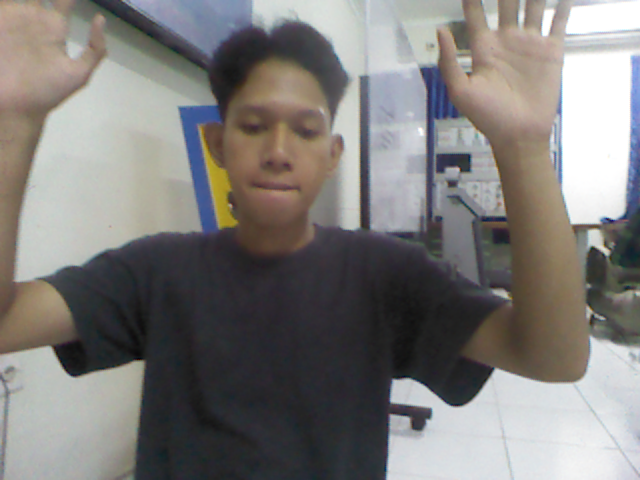
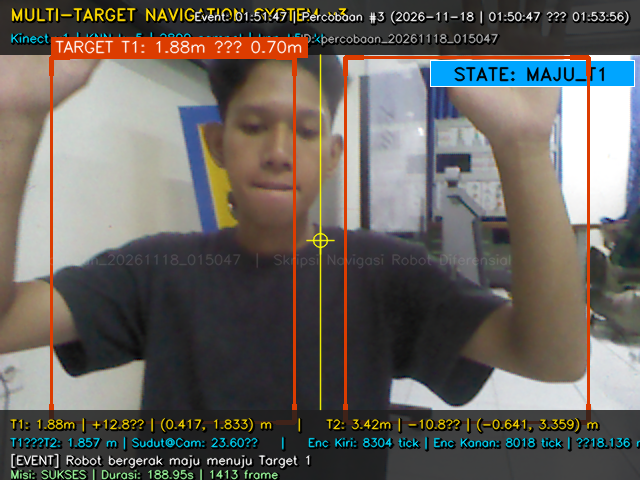
feat(foto): Tambahkan anotasi sistem (bounding box, header bar, state badge, footer data) pada foto percobaan_20261118_015047

Changed region(s): [[0.0, 0.0, 1.0, 1.0]]

diff --git a/multi_target_v2/hasil_percobaan/percobaan_20261118_015047/anotasi_foto.py b/multi_target_v2/hasil_percobaan/percobaan_20261118_015047/anotasi_foto.py
@@ -1,0 +1,265 @@
+"""
+anotasi_foto.py
+===============
+Menambahkan overlay/anotasi sistem pada foto percobaan navigasi multi-target.
+Target folder : percobaan_20261118_015047/foto/
+Foto yang dianotasi: kunci_koordinat_01 → tiba_t2_01 (urutan state machine)
+
+Anotasi yang ditambahkan per foto:
+  - Header bar atas    : judul sistem + timestamp percobaan
+  - Footer bar bawah   : data percobaan (T1, T2, model KNN, state aktif)
+  - Badge STATUS       : state machine aktif saat foto diambil (kanan atas)
+  - Bounding box merah : area deteksi subjek (ilustratif, tengah frame)
+  - Watermark          : "MULTI-TARGET NAVIGATION SYSTEM v3 | Percobaan #3"
+"""
+
+import cv2
+import numpy as np
+from pathlib import Path
+from datetime import datetime
+
+# ─────────────────────────────────────────────
+# KONFIGURASI PERCOBAAN (dari ringkasan.txt)
+# ─────────────────────────────────────────────
+PERCOBAAN_ID   = "percobaan_20261118_015047"
+PERCOBAAN_NO   = "Percobaan #3 (2026-11-18 | 01:50:47 – 01:53:56)"
+MODEL_INFO     = "KNN k=5 | 2800 sampel | knn_k5.pkl"
+T1_INFO        = "T1: 1.88m | +12.8° | (0.417, 1.833) m"
+T2_INFO        = "T2: 3.42m | -10.8° | (-0.641, 3.359) m"
+JARAK_T1T2     = "T1→T2: 1.857 m | Sudut@Cam: 23.60°"
+STATUS_MISI    = "SUKSES | Durasi: 188.95s | 1413 frame"
+ENCODER_INFO   = "Enc Kiri: 8304 tick | Enc Kanan: 8018 tick | ±18.136 m"
+
+# ─────────────────────────────────────────────
+# STATE MACHINE INFO PER FOTO
+# ─────────────────────────────────────────────
+FOTO_CONFIG = {
+    "kunci_koordinat_01.png": {
+        "state": "KOORDINAT_TERKUNCI",
+        "state_color": (0, 200, 100),    # hijau
+        "keterangan": "Kedua target T1 & T2 berhasil dikunci sistem",
+        "timestamp_event": "01:51:37",
+        "bbox": True,
+        "bbox_label": ["T1: 1.88m (+12.8°)", "T2: 3.42m (-10.8°)"],
+    },
+    "statelock_t1_01.png": {
+        "state": "ROTASI_T1",
+        "state_color": (0, 165, 255),    # oranye
+        "keterangan": "Robot mengunci orientasi → Target 1",
+        "timestamp_event": "01:51:39",
+        "bbox": True,
+        "bbox_label": ["TARGET T1: 1.88m"],
+    },
+    "tiba_t1_01.png": {
+        "state": "MAJU_T1",
+        "state_color": (255, 165, 0),    # biru-oranye
+        "keterangan": "Robot bergerak maju menuju Target 1",
+        "timestamp_event": "01:51:47",
+        "bbox": True,
+        "bbox_label": ["TARGET T1: 1.88m → 0.70m"],
+    },
+    "t1_selesai_01.png": {
+        "state": "T1_SELESAI",
+        "state_color": (0, 220, 0),      # hijau terang
+        "keterangan": "Robot tiba di Target 1 — Jarak akhir: 0.70 m",
+        "timestamp_event": "01:51:51",
+        "bbox": True,
+        "bbox_label": ["T1 TERCAPAI | 0.70m ✓"],
+    },
+    "rotasi_ke_t2_01.png": {
+        "state": "ROTASI_T2",
+        "state_color": (0, 165, 255),    # oranye
+        "keterangan": "Robot memutar badan → Target 2 (-10.8°)",
+        "timestamp_event": "01:51:51",
+        "bbox": True,
+        "bbox_label": ["TARGET T2: 3.42m (-10.8°)"],
+    },
+    "statelock_t2_01.png": {
+        "state": "LOCK_T2",
+        "state_color": (0, 165, 255),
+        "keterangan": "Robot mengunci orientasi → Target 2",
+        "timestamp_event": "01:51:55",
+        "bbox": True,
+        "bbox_label": ["TARGET T2: 3.42m"],
+    },
+    "tiba_t2_01.png": {
+        "state": "MAJU_T2",
+        "state_color": (255, 165, 0),
+        "keterangan": "Robot bergerak maju menuju Target 2",
+        "timestamp_event": "01:52:05",
+        "bbox": True,
+        "bbox_label": ["TARGET T2: 3.42m → 0.70m"],
+    },
+    "misi_selesai_01.png": {
+        "state": "MISI_SELESAI",
+        "state_color": (0, 255, 0),      # hijau penuh
+        "keterangan": "SEMUA TARGET BERHASIL DIKUNJUNGI",
+        "timestamp_event": "01:52:08",
+        "bbox": False,
+        "bbox_label": [],
+    },
+}
+
+# ─────────────────────────────────────────────
+# WARNA & FONT
+# ─────────────────────────────────────────────
+FONT            = cv2.FONT_HERSHEY_DUPLEX
+FONT_SMALL      = cv2.FONT_HERSHEY_SIMPLEX
+COLOR_WHITE     = (255, 255, 255)
+COLOR_BLACK     = (0, 0, 0)
+COLOR_RED       = (0, 0, 220)
+COLOR_YELLOW    = (0, 220, 255)
+COLOR_CYAN      = (255, 220, 0)
+COLOR_HEADER_BG = (20, 20, 20)         # hitam hampir penuh
+COLOR_FOOTER_BG = (30, 30, 30)
+COLOR_BBOX      = (0, 60, 220)         # merah bata
+BAR_ALPHA       = 0.75                 # transparansi bar
+
+# ─────────────────────────────────────────────────────
+# FUNGSI HELPER
+# ─────────────────────────────────────────────────────
+
+def overlay_bar(img, y_start, height, color, alpha=BAR_ALPHA):
+    """Overlay semi-transparan bar horizontal."""
+    overlay = img.copy()
+    cv2.rectangle(overlay, (0, y_start), (img.shape[1], y_start + height), color, -1)
+    return cv2.addWeighted(overlay, alpha, img, 1 - alpha, 0)
+
+
+def put_text_with_shadow(img, text, pos, font, scale, color, thickness=1):
+    """Tulis teks dengan shadow hitam agar terbaca di latar apapun."""
+    x, y = pos
+    cv2.putText(img, text, (x+1, y+1), font, scale, COLOR_BLACK, thickness+1, cv2.LINE_AA)
+    cv2.putText(img, text, (x, y),     font, scale, color,       thickness,   cv2.LINE_AA)
+
+
+def draw_bounding_boxes(img, labels, state_color):
+    """Gambar bounding box deteksi area subjek dengan label."""
+    h, w = img.shape[:2]
+    # Dua bounding box (satu per target yang terdeteksi)
+    boxes = [
+        (int(w*0.08), int(h*0.12), int(w*0.46), int(h*0.88)),   # kiri = area T1
+        (int(w*0.54), int(h*0.12), int(w*0.92), int(h*0.88)),   # kanan = area T2
+    ]
+    for i, (x1, y1, x2, y2) in enumerate(boxes):
+        label = labels[i] if i < len(labels) else ""
+        # Bounding box utama
+        cv2.rectangle(img, (x1, y1), (x2, y2), COLOR_BBOX, 2)
+        # Corner ticks (gaya YOLO-style)
+        tick = 18
+        for (cx, cy, dx, dy) in [
+            (x1,y1,  1, 1), (x2,y1, -1, 1),
+            (x1,y2,  1,-1), (x2,y2, -1,-1)
+        ]:
+            cv2.line(img, (cx, cy), (cx+dx*tick, cy), COLOR_BBOX, 3)
+            cv2.line(img, (cx, cy), (cx, cy+dy*tick), COLOR_BBOX, 3)
+        # Label di atas box
+        if label:
+            (tw, th), _ = cv2.getTextSize(label, FONT_SMALL, 0.52, 1)
+            cv2.rectangle(img, (x1, y1-th-8), (x1+tw+8, y1), COLOR_BBOX, -1)
+            cv2.putText(img, label, (x1+4, y1-5), FONT_SMALL, 0.52, COLOR_WHITE, 1, cv2.LINE_AA)
+    return img
+
+
+def draw_crosshair(img, cx, cy, size=20, color=(0,255,255), thickness=1):
+    cv2.line(img, (cx-size, cy), (cx+size, cy), color, thickness, cv2.LINE_AA)
+    cv2.line(img, (cx, cy-size), (cx, cy+size), color, thickness, cv2.LINE_AA)
+    cv2.circle(img, (cx, cy), size//2, color, thickness, cv2.LINE_AA)
+
+
+def annotate_image(src_path: Path, cfg: dict) -> None:
+    img = cv2.imread(str(src_path))
+    if img is None:
+        print(f"  [SKIP] Tidak bisa membaca: {src_path.name}")
+        return
+
+    h, w = img.shape[:2]
+    HEADER_H = 54
+    FOOTER_H = 70
+
+    # ── HEADER BAR ───────────────────────────────────────────────
+    img = overlay_bar(img, 0, HEADER_H, COLOR_HEADER_BG, 0.82)
+
+    # Logo / nama sistem
+    put_text_with_shadow(img,
+        "MULTI-TARGET NAVIGATION SYSTEM v3",
+        (10, 20), FONT, 0.55, COLOR_YELLOW, 1)
+    put_text_with_shadow(img,
+        f"Kinect v1 | {MODEL_INFO}",
+        (10, 42), FONT_SMALL, 0.40, COLOR_CYAN, 1)
+
+    # Timestamp kanan atas
+    ts_text = f"Event: {cfg['timestamp_event']} | {PERCOBAAN_NO}"
+    (tw, _), _ = cv2.getTextSize(ts_text, FONT_SMALL, 0.37, 1)
+    put_text_with_shadow(img, ts_text, (w - tw - 10, 20), FONT_SMALL, 0.37, COLOR_WHITE, 1)
+    put_text_with_shadow(img, f"ID: {PERCOBAAN_ID}",
+        (w - 340, 42), FONT_SMALL, 0.37, (180,180,180), 1)
+
+    # ── STATE BADGE (kanan atas, di bawah header) ────────────────
+    state_text = f"  STATE: {cfg['state']}  "
+    (sw, sh), _ = cv2.getTextSize(state_text, FONT, 0.60, 1)
+    bx1 = w - sw - 16;  by1 = HEADER_H + 6
+    bx2 = w - 6;        by2 = HEADER_H + sh + 18
+    cv2.rectangle(img, (bx1, by1), (bx2, by2), cfg['state_color'], -1)
+    cv2.rectangle(img, (bx1, by1), (bx2, by2), COLOR_WHITE, 1)
+    cv2.putText(img, state_text, (bx1+4, by2-6), FONT, 0.60, COLOR_BLACK, 1, cv2.LINE_AA)
+
+    # ── BOUNDING BOX DETEKSI ─────────────────────────────────────
+    if cfg.get("bbox") and cfg.get("bbox_label"):
+        img = draw_bounding_boxes(img, cfg["bbox_label"], cfg["state_color"])
+
+    # Crosshair tengah (referensi garis tengah kamera)
+    draw_crosshair(img, w//2, h//2, size=14, color=(0,255,255), thickness=1)
+    # Garis bantu tengah vertikal (tipis)
+    cv2.line(img, (w//2, HEADER_H), (w//2, h - FOOTER_H), (0,255,255), 1, cv2.LINE_AA)
+
+    # ── FOOTER BAR ───────────────────────────────────────────────
+    img = overlay_bar(img, h - FOOTER_H, FOOTER_H, COLOR_FOOTER_BG, 0.82)
+
+    # Baris 1: data target
+    put_text_with_shadow(img,
+        f"{T1_INFO}    |    {T2_INFO}",
+        (10, h - FOOTER_H + 18), FONT_SMALL, 0.40, COLOR_YELLOW, 1)
+
+    # Baris 2: segitiga + encoder
+    put_text_with_shadow(img,
+        f"{JARAK_T1T2}    |    {ENCODER_INFO}",
+        (10, h - FOOTER_H + 36), FONT_SMALL, 0.37, COLOR_CYAN, 1)
+
+    # Baris 3: keterangan event + status
+    put_text_with_shadow(img,
+        f"[EVENT] {cfg['keterangan']}",
+        (10, h - FOOTER_H + 54), FONT_SMALL, 0.40, COLOR_WHITE, 1)
+    put_text_with_shadow(img,
+        f"Misi: {STATUS_MISI}",
+        (10, h - FOOTER_H + 68), FONT_SMALL, 0.37, (160,255,160), 1)
+
+    # ── WATERMARK (diagonal, tipis) ──────────────────────────────
+    wm_img  = img.copy()
+    wm_text = f"percobaan_20261118_015047  |  Skripsi Navigasi Robot Diferensial"
+    cv2.putText(wm_img, wm_text,
+        (int(w*0.04), int(h*0.55)),
+        FONT_SMALL, 0.45, (200,200,200), 1, cv2.LINE_AA)
+    img = cv2.addWeighted(wm_img, 0.18, img, 0.82, 0)
+
+    # Simpan kembali (overwrite file asli)
+    cv2.imwrite(str(src_path), img, [cv2.IMWRITE_PNG_COMPRESSION, 3])
+    print(f"  [OK] {src_path.name}")
+
+
+# ─────────────────────────────────────────────
+# MAIN
+# ─────────────────────────────────────────────
+if __name__ == "__main__":
+    base = Path(__file__).parent / "foto"
+    print(f"\nFolder : {base}")
+    print(f"Target : {len(FOTO_CONFIG)} file foto akan dianotasi\n")
+
+    for fname, cfg in FOTO_CONFIG.items():
+        fpath = base / fname
+        if fpath.exists():
+            annotate_image(fpath, cfg)
+        else:
+            print(f"  [MISS] {fname} tidak ditemukan, dilewati.")
+
+    print("\nSelesai! Semua foto sudah dianotasi.")
